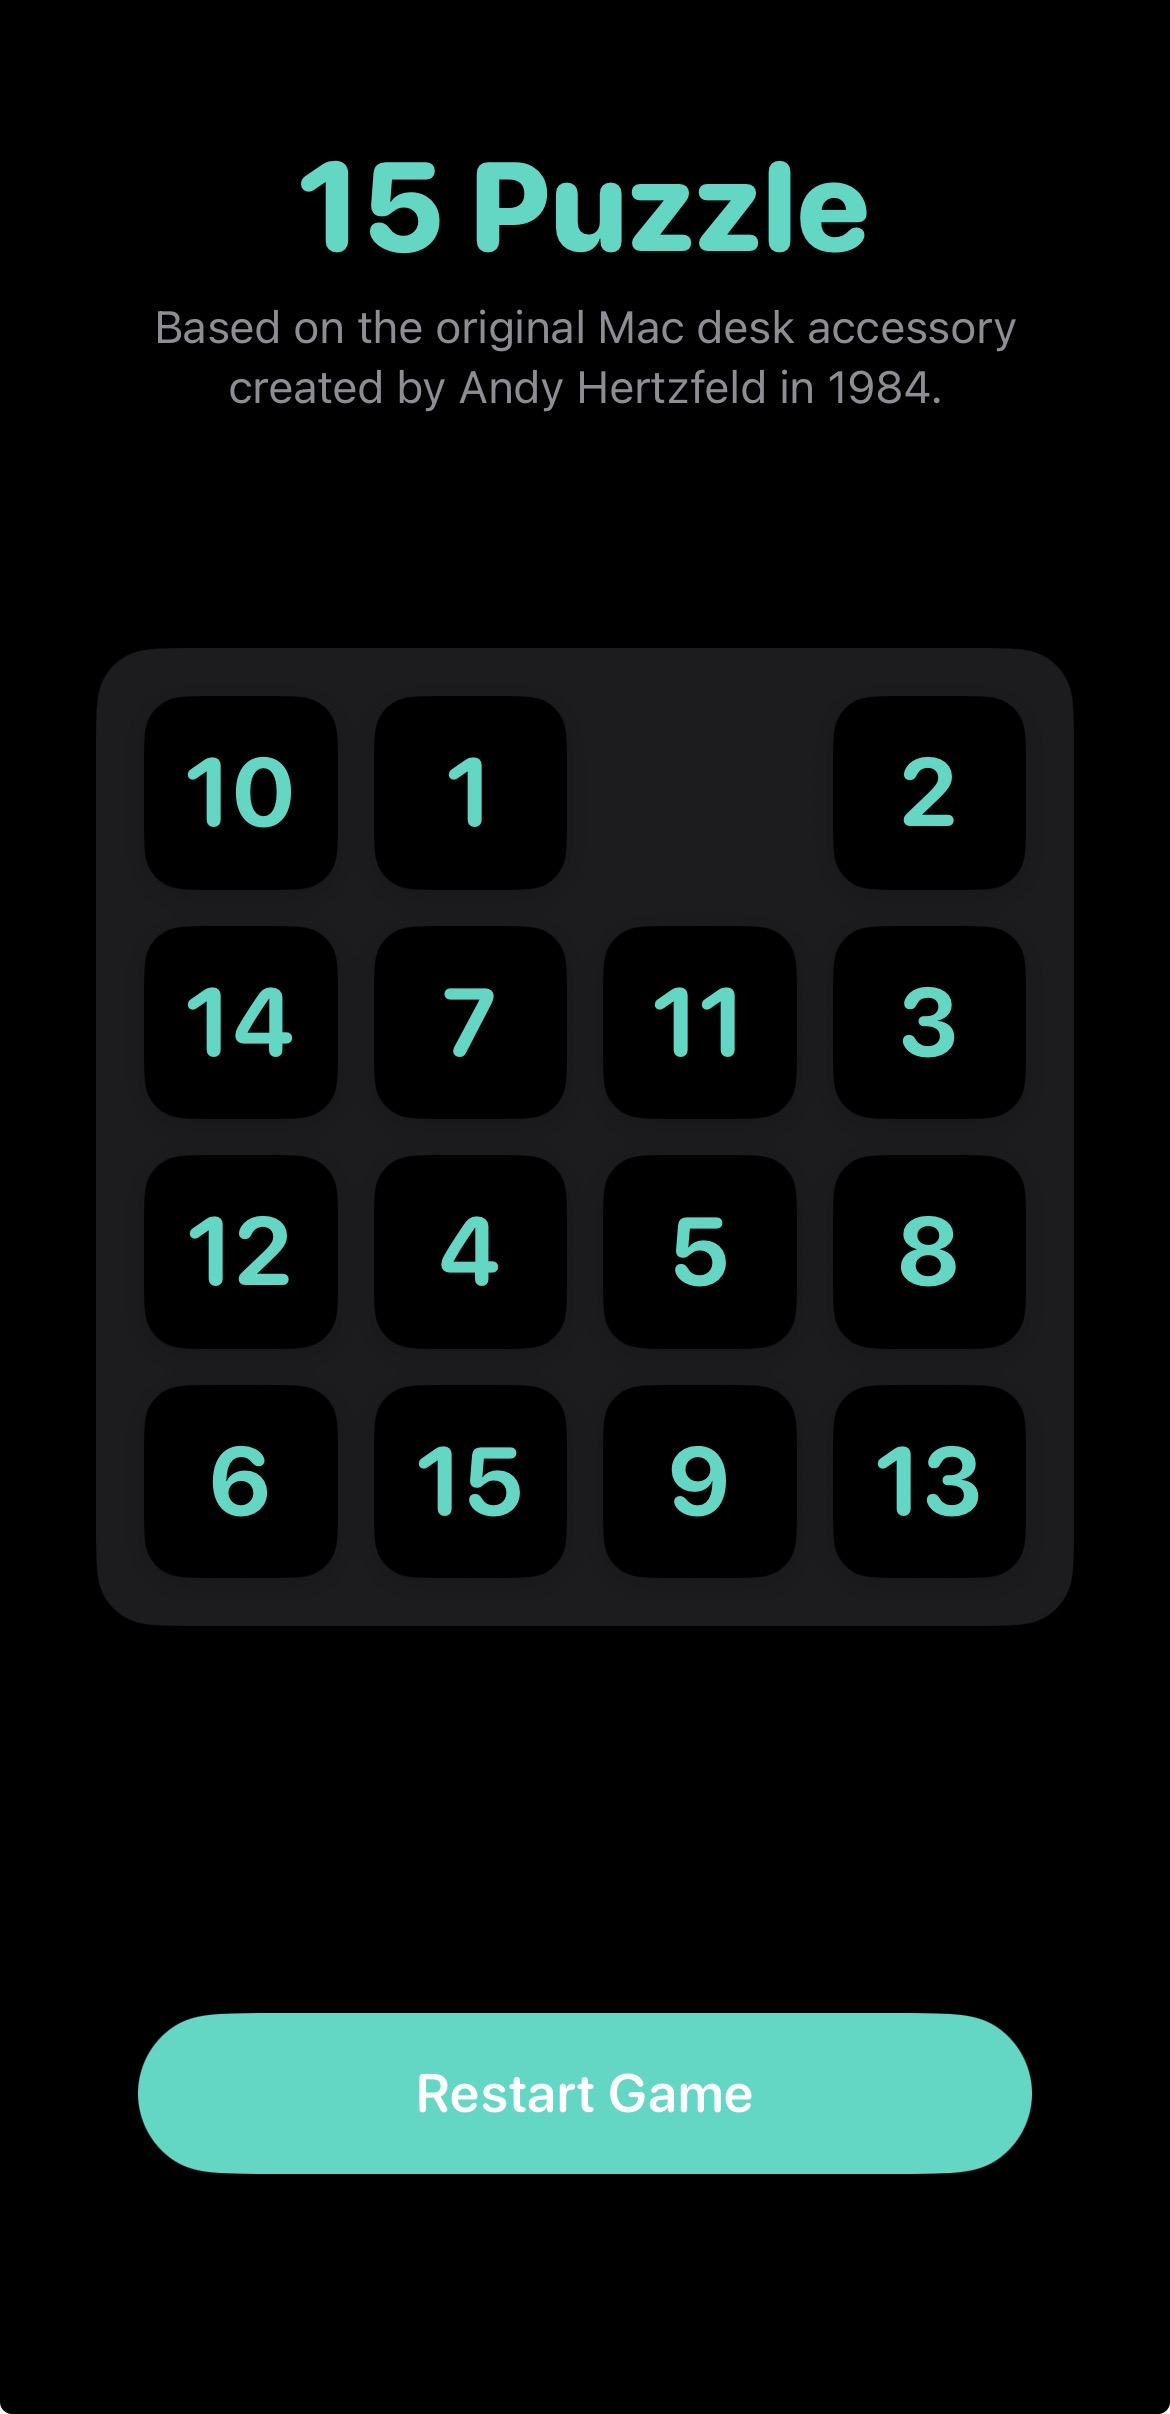
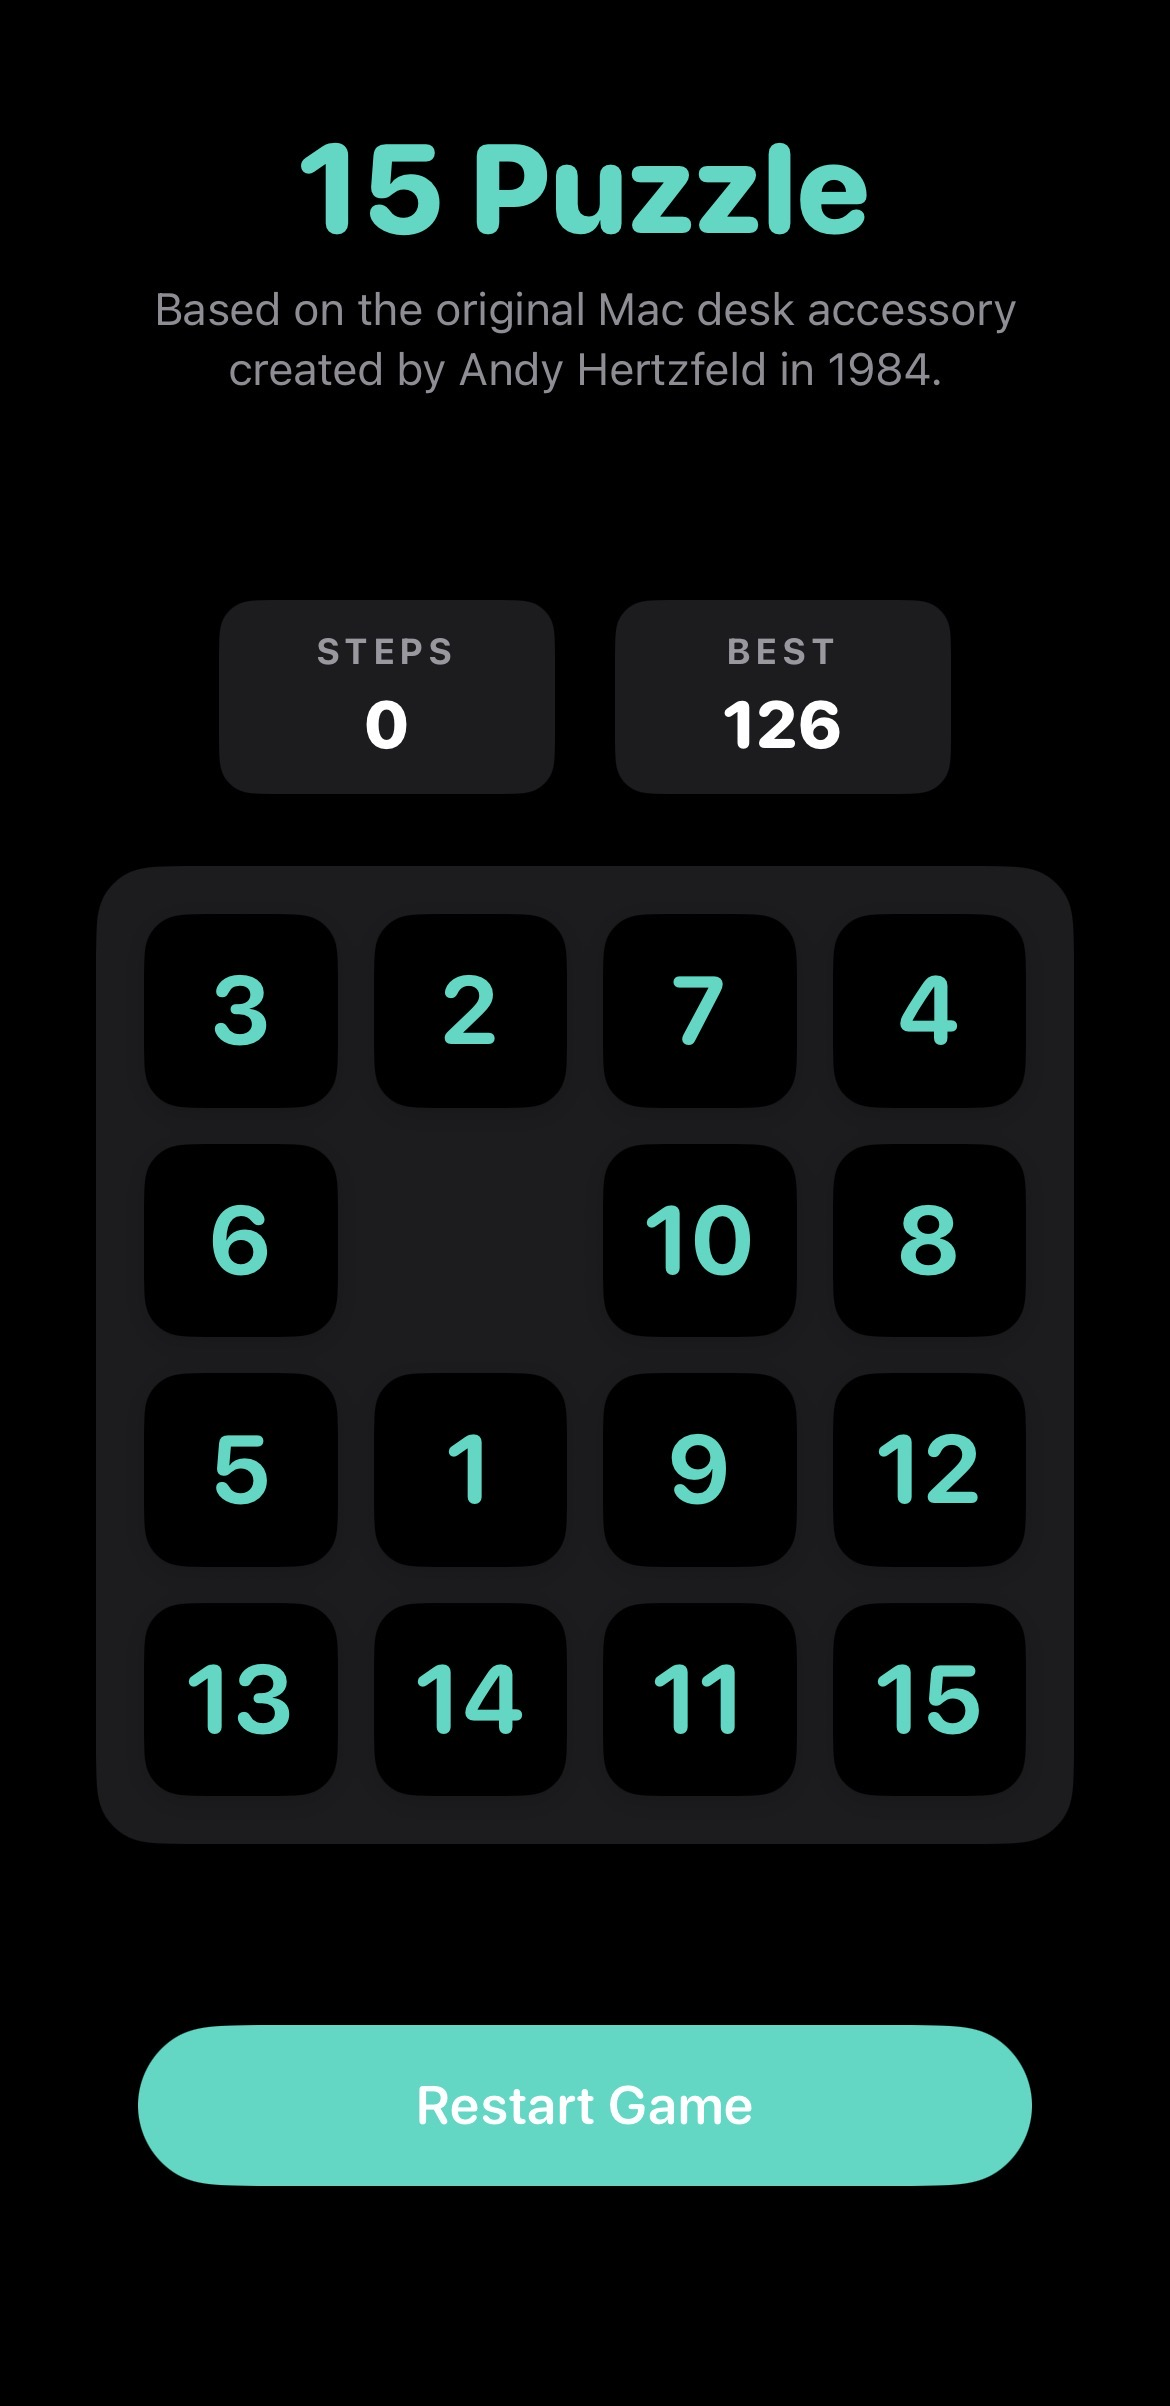
Updated README and related images.

diff --git a/README.md b/README.md
@@ -20,19 +20,20 @@ The game consists of a 4x4 grid containing numbered tiles from 1 to 15, leaving 
 
 The objective is to rearrange the tiles in numerical order from left to right, top to bottom, with the blank space resting in the bottom right corner. 
 
-To move tiles, tap on any numbered tile in the same row or column as the blank space. The selected tile, along with any adjacent tiles, will slide smoothly into the empty spot. Once the correct order is achieved, the game locks the board and displays a victory message.
+To move tiles, tap or swipe on any numbered tile in the same row or column as the blank space. The selected tile, along with any adjacent tiles, will slide smoothly into the empty spot. Once the correct order is achieved, the game locks the board and displays a victory message.
 
 ## Features
 
-* Algorithmic Scrambling: The game simulates 150 random valid moves from a solved state. This guarantees that every generated puzzle is 100 percent solvable.
-* Fluid Animations: Utilizing SwiftUI spring animations, the tiles slide naturally into place. The logic supports shifting entire rows or columns at once.
-* Modular Architecture: The user interface is broken down into clean, reusable components.
-* System Theme Support: The interface seamlessly adapts to the system appearance settings, supporting both bright and dark modes.
+* **Algorithmic Scrambling:** The game simulates 150 random valid moves from a solved state. This guarantees that every generated puzzle is 100 percent solvable.
+* **Fluid Animations and Gestures:** Utilizing SwiftUI spring animations, the tiles slide naturally into place via tap or swipe gestures. The logic supports shifting entire rows or columns at once.
+* **Step Tracking and High Scores:** A live step counter tracks the player's efficiency. The app uses UserDefaults to permanently save and display the player's best record across sessions.
+* **Audio and Haptic Feedback:** Includes tactile vibration feedback for tile movements and custom audio cues for standard victories and record breaking wins.
+* **MVVM Architecture:** The codebase strictly separates the user interface from the game engine, ensuring a scalable and easily readable environment.
+* **System Theme Support:** The interface seamlessly adapts to the system appearance settings, supporting both bright and dark modes.
 
 ## Project Structure
 
-The codebase is organized into modular SwiftUI views:
-* **MainView.swift**: The central container managing the game state and view composition.
-* **HeaderView.swift**: Displays the title and the historical attribution subtitle.
-* **GameGridView.swift**: Renders the 4x4 grid and handles the tap gestures and movement logic.
-* **TileView.swift**: The visual representation of individual numbered cells and the blank space.
+The codebase is organized into modular components:
+* **ViewModels:** Contains `GameViewModel.swift` which handles the game state, movement validation, and scoring logic.
+* **Views:** Contains `MainView.swift` for the central container, `HeaderView.swift` for attribution, `StatBoxView.swift` for the score counters, `GameGridView.swift` for rendering the board, and `TileView.swift` for individual cells.
+* **Utils:** Contains `SoundManager.swift` to handle audio playback and memory lifecycle.
